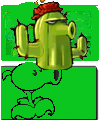
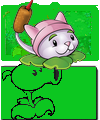
fix(cattail): replace wrong Cattail.gif with real PVZ1 cattail sprite (v3.2.19 -> v3.2.20-cattail)
User: 'Look at the cattail picture on the net (PVZ). The cattail picture
in the game is not quite right, please fix it.'

Diagnosis: the existing Plants/Cattail/Cattail.gif (122x157, 15 frames)
was actually two green puffshrooms, not a cattail! And the leftover
untracked Plants/Cattail/Cattail.png (220x220) was a pink pig sprite.
Both were wrong, only the .gif was wired up (Plant.js stat.src,
GameLoop getImg, recipe book, InputManager drag ghost all reference
Plants/Cattail/Cattail.gif).

Fix:
1. Downloaded the authentic PVZ1 cattail from wiki.gg
   (File:Cattail2009HD.png, 200x195, RGBA with the iconic pink cat face,
   long stem with the brown cattail tip + red spike, sitting on
   green lily pads).
2. Replaced Plants/Cattail/Cattail.gif with the real sprite. Filename
   kept as .gif so all existing references (Plant.js / GameLoop /
   InputManager / recipe book) keep working — the project already
   stores many '*.gif' that are actually PNG content.
3. Regenerated Card/Plants/Cattail.png (100x120 standard card) using
   the new sprite in the Peashooter template (grass + lower half),
   with auto-bbox scaling (200x195 -> 72px tall centered in card).

Verified: classic mode shows the real pink-cat-face cattail on the
lawn. Card is correctly rendered in the seed chooser.
Bumped v3.2.19-14base -> v3.2.20-cattail.

diff --git a/pvz-web/index.html b/pvz-web/index.html
@@ -4,7 +4,7 @@
     <meta charset="UTF-8">
     <meta name="viewport" content="width=device-width, initial-scale=1.0">
     <title>Plants vs Zombies - Web Clone</title>
-    <link rel="stylesheet" href="css/style.css?v=1788083106">
+    <link rel="stylesheet" href="css/style.css?v=1788088018">
 </head>
 <body>
     <div id="game-container">
@@ -119,16 +119,16 @@
                 });
         })();
     </script>
-    <script src="js/InputManager.js?v=1788083106"></script>
-    <script src="js/Board.js?v=1788083106"></script>
-    <script src="js/entities/Entity.js?v=1788083106"></script>
-    <script src="js/entities/Plant.js?v=1788083106"></script>
-    <script src="js/entities/Zombie.js?v=1788083106"></script>
-    <script src="js/entities/Projectile.js?v=1788083106"></script>
-    <script src="js/entities/Sun.js?v=1788083106"></script>
-    <script src="js/managers/WaveManager.js?v=1788083106"></script>
-    <script src="js/managers/CollisionManager.js?v=1788083106"></script>
-    <script src="js/managers/EventManager.js?v=1788083106"></script>
-    <script src="js/GameLoop.js?v=1788083106"></script>
+    <script src="js/InputManager.js?v=1788088018"></script>
+    <script src="js/Board.js?v=1788088018"></script>
+    <script src="js/entities/Entity.js?v=1788088018"></script>
+    <script src="js/entities/Plant.js?v=1788088018"></script>
+    <script src="js/entities/Zombie.js?v=1788088018"></script>
+    <script src="js/entities/Projectile.js?v=1788088018"></script>
+    <script src="js/entities/Sun.js?v=1788088018"></script>
+    <script src="js/managers/WaveManager.js?v=1788088018"></script>
+    <script src="js/managers/CollisionManager.js?v=1788088018"></script>
+    <script src="js/managers/EventManager.js?v=1788088018"></script>
+    <script src="js/GameLoop.js?v=1788088018"></script>
 </body>
 </html>
